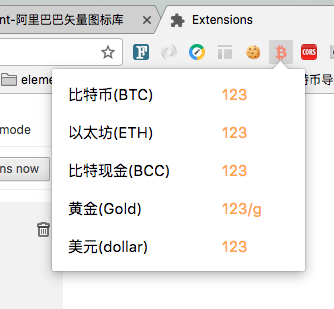
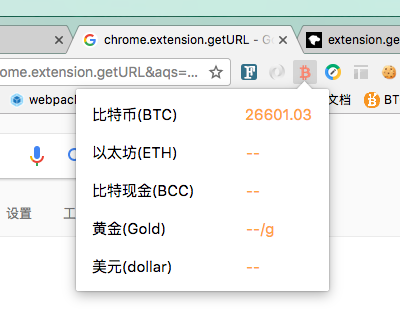
接入btc price api

diff --git a/src/popup.js b/src/popup.js
@@ -1,17 +1,26 @@
-// Copyright (c) 2012 The Chromium Authors. All rights reserved.
-// Use of this source code is governed by a BSD-style license that can be
-// found in the LICENSE file.
-
-
-function click(e) {
-  chrome.tabs.executeScript(null,
-      {code:"document.body.style.backgroundColor='" + e.target.id + "'"});
-  window.close();
-}
-
 document.addEventListener('DOMContentLoaded', function () {
-  var divs = document.querySelectorAll('div');
-  for (var i = 0; i < divs.length; i++) {
-    divs[i].addEventListener('click', click);
+
+  function getAllPriceInfo() {
+    var body = document.querySelector('body')
+    // body.innerHTML = Math.random()
+
+    var btc = document.querySelector('#btc')
+    var eth = document.querySelector('#eth')
+    var bcc = document.querySelector('#bcc')
+    var gold = document.querySelector('#gold')
+    var dollar = document.querySelector('#dollar')
+
+    fetch('https://www.btc123.com/api/getTicker?symbol=btcchinabtccny')
+      .then(res => res.json())
+      .then(res => {
+        btc.innerHTML = res.datas.ticker.buy
+      })
+      .catch(res => {
+        btc.innerHTML = res
+      })
   }
+
+  getAllPriceInfo();
+  setInterval(getAllPriceInfo, 1000 * 20);
+
 });

diff --git a/src/popup.html b/src/popup.html
@@ -29,25 +29,25 @@
     <script src="popup.js"></script>
   </head>
   <body>
-    <div id="btc">
+    <div>
       <span>比特币(BTC)</span>
-      <span>123</span>
+      <span id="btc">--</span>
     </div>
-    <div id="eth">
+    <div>
       <span>以太坊(ETH)</span>
-      <span>123</span>
+      <span id="eth">--</span>
     </div>
-    <div id="bcc">
+    <div>
       <span>比特现金(BCC)</span>
-      <span>123</span>
+      <span id="bcc">--</span>
     </div>
-    <div id="gold">
+    <div>
       <span>黄金(Gold)</span>
-      <span>123/g</span>
+      <span id="gold">--/g</span>
     </div>
-    <div id="dollar">
+    <div>
       <span>美元(dollar)</span>
-      <span>123</span>
+      <span id="dollar">--</span>
     </div>
   </body>
 </html>

diff --git a/src/content.js b/src/content.js
@@ -1,0 +1,12 @@
+// 在匹配的网站，执行该脚本文件
+
+// "content_scripts": [{
+//     "matches": ["http://www.baidu.com/*"],
+//     "css": ["style.css"],
+//     "js": ["content.js"]
+// }],
+
+
+setInterval(function() {
+    // console.log(Math.random());
+}, 1000);

diff --git a/src/background.js b/src/background.js
@@ -1,1 +1,10 @@
-// alert(11)
+// 在应用启动时，执行该脚本，背景页不需要HTML
+
+// "background": {
+//     "scripts": ["background.js"]
+//  }
+
+
+setInterval(function() {
+  // alert(1211)
+}, 1000 * 3);

diff --git a/README.md b/README.md
@@ -9,3 +9,16 @@
 
 ## 如何写一个chrome插件
 首先可以看360翻译的文档，上面有大量的demo，http://open.chrome.360.cn/extension_dev/background_pages.html
+
+## 重要API解读
+#### Browser Actions
+可以定义应用的图标、name、气泡html
+
+#### permissions
+定义该应用可以访问的域、资源
+
+#### background_scripts
+在插件启动时，就会执行该脚本，不需要HTML文件，例：background.js
+
+#### content_scripts
+在match到的页面下，会执行该脚本，例：content.js会在http://www.zhentaoo.com/*下执行
